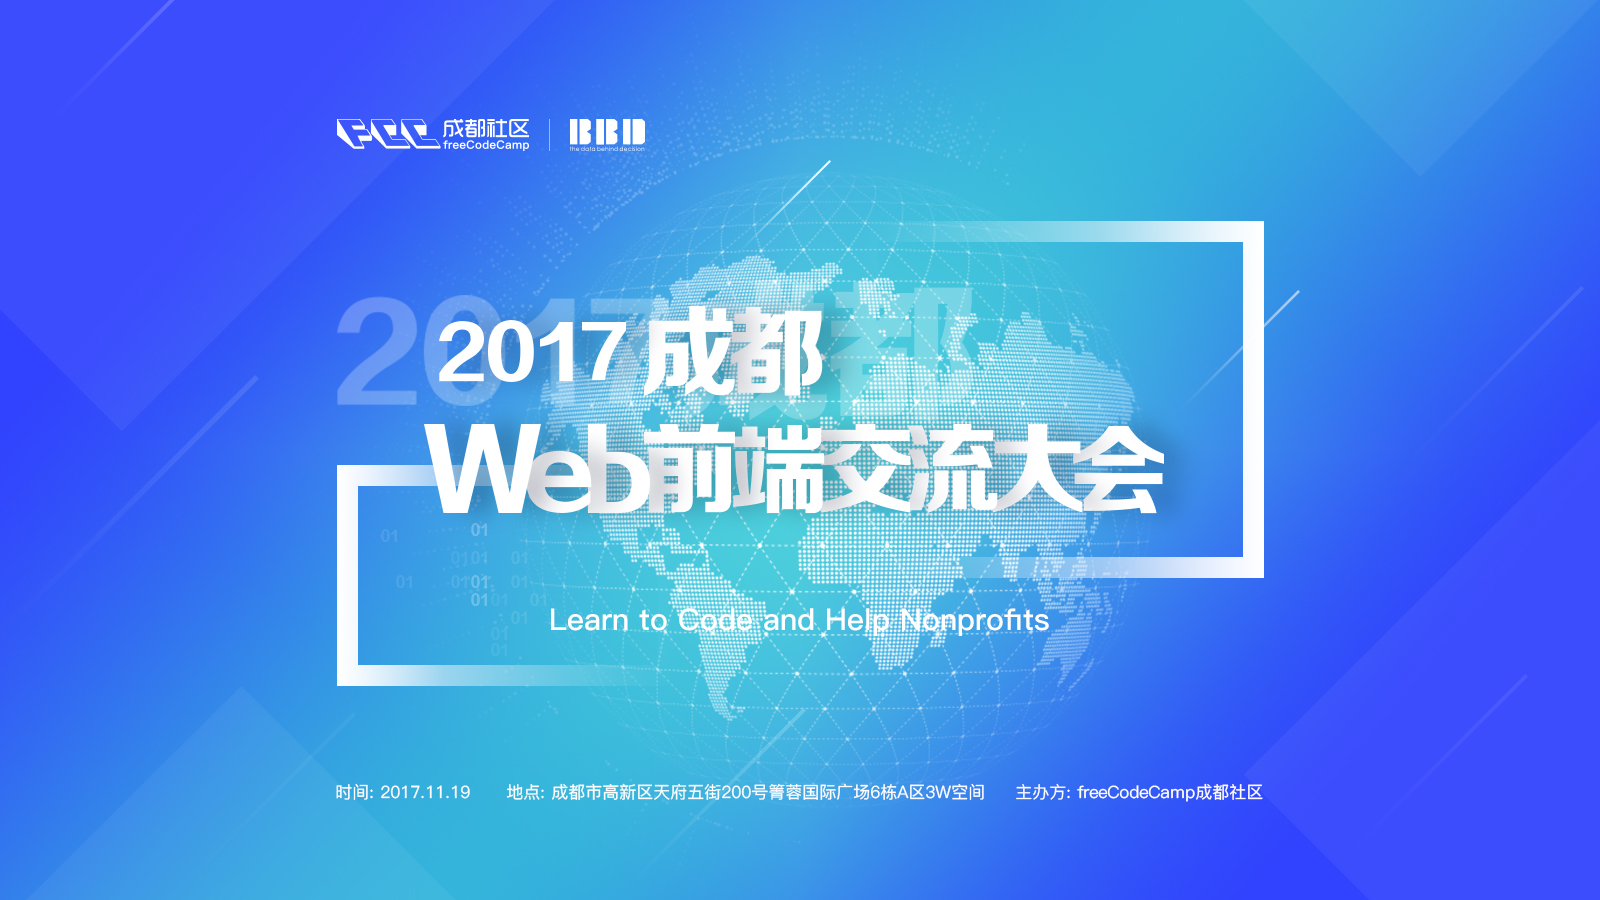
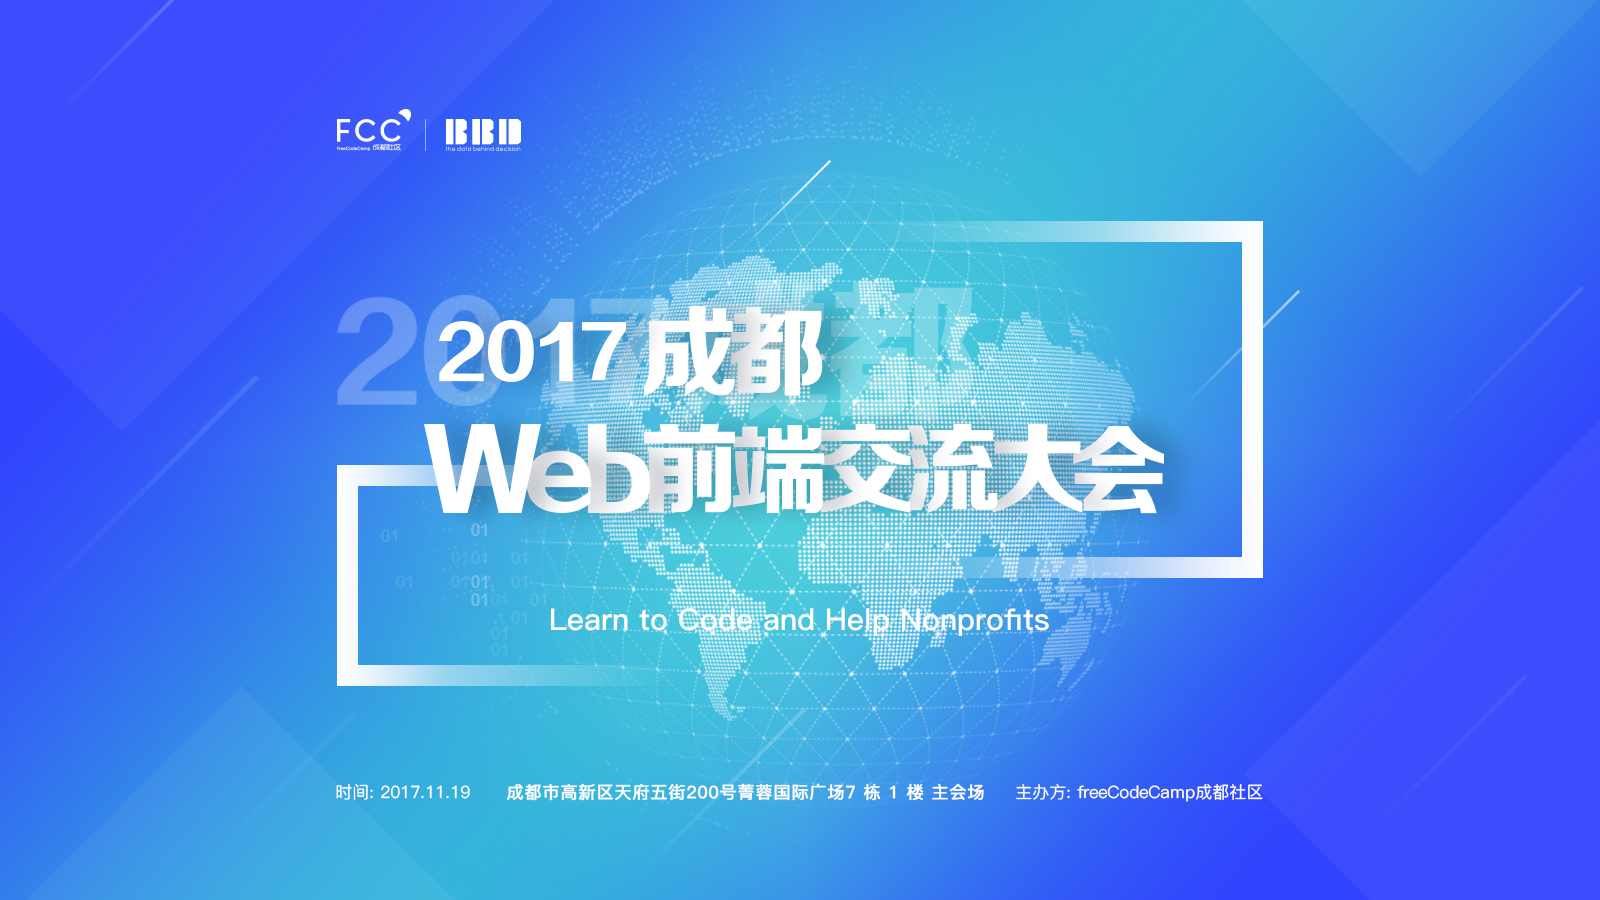
更新banner,logo在手机上的尺寸

Changed region(s): [[0.1875, 0.1244, 0.4062, 0.1867], [0.3125, 0.8711, 0.625, 0.9022]]

diff --git a/page/index.css b/page/index.css
@@ -196,11 +196,11 @@ footer p, footer a{
         width: 90%;
     }
     .logos a{
-        width: 280px;
-        height: 100px;
+        width: 140px;
+        height: 50px;
     }
     .logos img {
-        max-width: 260px;
-        max-height: 60px;
+        max-width: 140px;
+        max-height: 50px;
     }
 }
